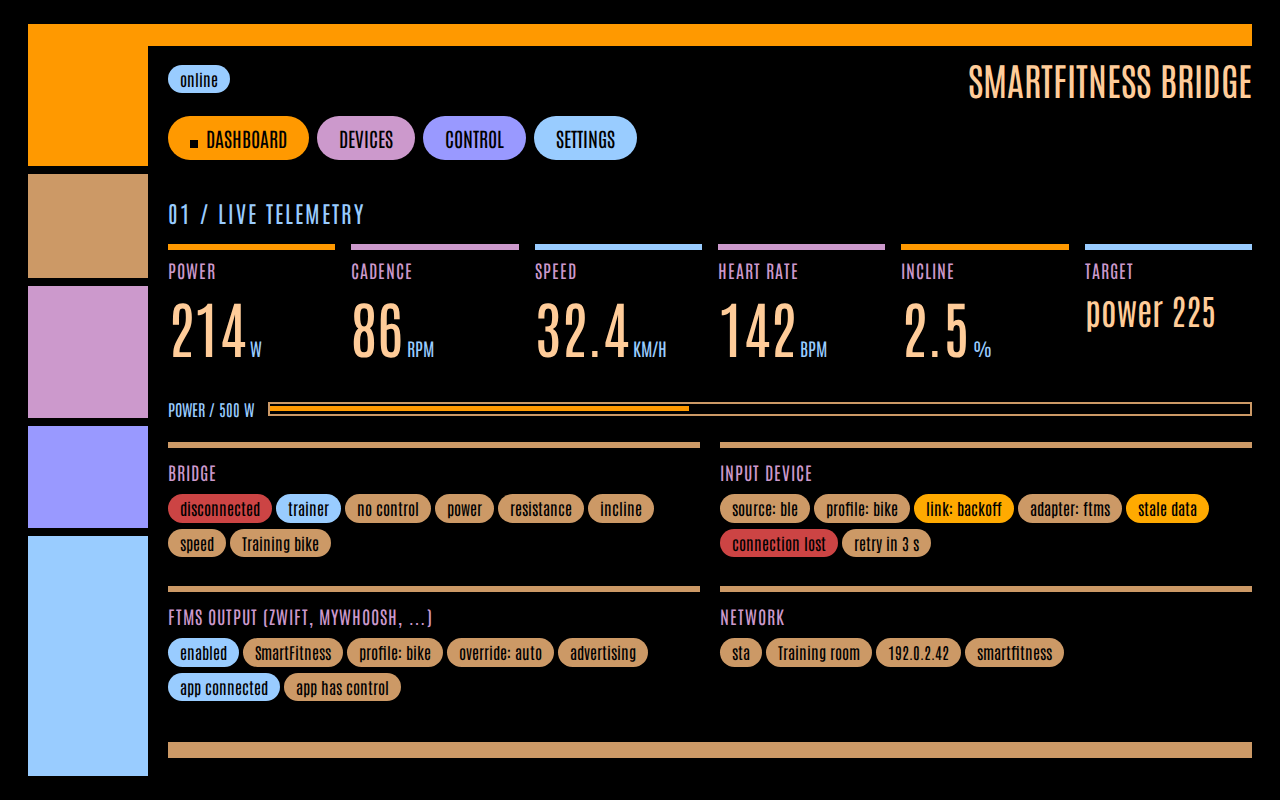
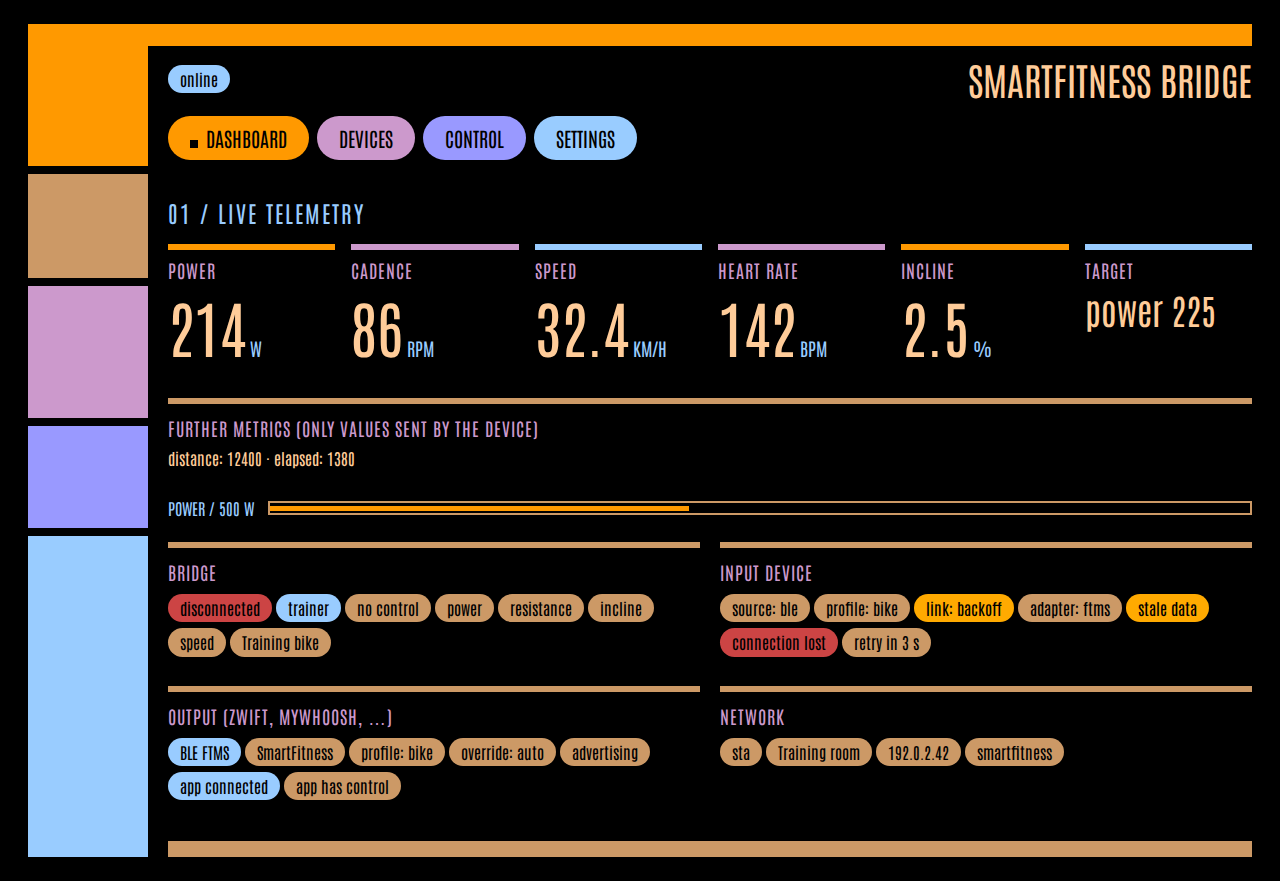
Update HMI simulator and web screenshot fixtures for the output protocol; regenerate docs images

Changed region(s): [[0.0, 0.0, 1.0, 1.0], [0.0312, 0.9688, 0.0938, 1.0]]

diff --git a/scripts/web_screenshots.py b/scripts/web_screenshots.py
@@ -38,7 +38,11 @@ STATUS = {
               "dropped": {"scans": 0, "events": 0, "notifications": 0, "commands": 0}},
     "ftmsOutput": {"enabled": True, "profile": "bike", "override": "auto",
                    "name": "SmartFitness", "advertising": True, "client": True, "control": True},
-    "ant": False, "unsaved": False,
+    "outputProtocol": "ble-ftms",
+    "antOutput": {"enabled": False, "available": True, "link": "disabled", "stick": False, "open": False,
+                  "deviceNumber": 4660, "profile": "bike", "display": False, "control": False,
+                  "hardware": "USB 0fcf:1008"},
+    "unsaved": False,
     "network": {"mode": "sta", "ssid": "Training room", "ip": "192.0.2.42",
                 "hostname": "smartfitness", "stations": 0},
 }
@@ -56,9 +60,9 @@ SCAN = {
     ],
 }
 CONFIG = {
-    "type": "config", "version": "1.0.0", "ftmsName": "SmartFitness", "ftmsOutput": True,
-    "ftmsOutputProfile": "auto", "ftmsInput": True, "ant": False,
-    "antRequiresHardware": True, "simulatedTrainer": True, "wifiSsid": "Training room",
+    "type": "config", "version": "1.0.0", "ftmsName": "SmartFitness", "outputProtocol": "ble-ftms",
+    "ftmsOutputProfile": "auto", "ftmsInput": True, "antAvailable": True,
+    "simulatedTrainer": True, "wifiSsid": "Training room",
     "wifiPasswordSet": True, "apPasswordDefault": True, "unsaved": False,
 }
 WIFI_SCAN = {
@@ -242,6 +246,9 @@ def render(browser, output, name, width, height):
     for number, panel in enumerate(panel_names, start=1 if name == "desktop" else 5):
         page.locator(f"#tab-{panel}").click()
         check_view(page, panel, width < 650)
+        if panel == "dash":
+            expect(page.locator("#s-out .pill").first).to_have_text("BLE FTMS")
+            expect(page.locator("#s-out")).to_contain_text("app connected")
         if panel == "dev":
             expect(page.get_by_label("Adapter for Training bike")).to_have_value("ftms")
             page.get_by_label("Pair Unknown peripheral", exact=True).click()
@@ -269,8 +276,8 @@ def render(browser, output, name, width, height):
             command(page.locator("#btn-save"), "config")
             expect(page.locator("#toast")).to_have_text("applied")
             assert commands[-1] == ("config", {
-                "ftmsName": "SmartFitness", "ftmsOutput": True, "ftmsOutputProfile": "auto",
-                "ant": False, "simulatedTrainer": True, "wifiSsid": "Training room", "save": True})
+                "ftmsName": "SmartFitness", "outputProtocol": "ble-ftms", "ftmsOutputProfile": "auto",
+                "simulatedTrainer": True, "wifiSsid": "Training room", "save": True})
             page.locator("#toast").evaluate("e => e.style.display = 'none'")
         # Remove interaction-only focus so screenshots have a stable resting state.
         page.evaluate("document.activeElement.blur()")
@@ -311,7 +318,9 @@ def render(browser, output, name, width, height):
         page.locator("#tab-set").click()
     expect(page.locator("#c-ftmsName")).to_have_value("SmartFitness")
     page.locator("#c-ftmsOutputProfile").select_option("treadmill")
-    page.locator("#c-ftmsOutput").uncheck()
+    expect(page.locator("#c-outputProtocol")).to_have_value("ble-ftms")
+    expect(page.locator('#c-outputProtocol option[value="ant-fec"]')).to_be_enabled()
+    page.locator("#c-outputProtocol").select_option("ant-fec")
     page.locator("#c-simulatedTrainer").uncheck()
     page.locator("#c-ftmsName").fill("Test treadmill")
     # Config WebSocket updates must not overwrite a field currently being edited.
@@ -320,8 +329,8 @@ def render(browser, output, name, width, height):
     page.locator("#c-wifiPassword").fill("test-fixture-only")
     command(page.locator("#btn-save"), "config")
     assert commands[-1] == ("config", {
-        "ftmsName": "Test treadmill", "ftmsOutput": False, "ftmsOutputProfile": "treadmill",
-        "ant": False, "simulatedTrainer": False, "wifiSsid": "Training room", "save": True,
+        "ftmsName": "Test treadmill", "outputProtocol": "ant-fec", "ftmsOutputProfile": "treadmill",
+        "simulatedTrainer": False, "wifiSsid": "Training room", "save": True,
         "wifiPassword": "test-fixture-only"}), commands[-1]
     # Wi-Fi scan: spinner while busy, then a listbox under the SSID field.
     ssid, wifi_list, wifi_button = (page.locator("#c-wifiSsid"), page.locator("#wifi-list"),

diff --git a/sim/hmi_sim.cpp b/sim/hmi_sim.cpp
@@ -643,10 +643,9 @@ ConfigView configView() {
     ConfigView config;
     config.version = "0.3.0";
     config.ftmsName = "SmartFitness Bridge";
-    config.ftmsOutput = true;
+    config.outputProtocol = OutputProtocol::BleFtms;
     config.ftmsOutputProfile = FtmsOutputProfile::Auto;
-    config.ant = false;
-    config.antRequiresHardware = true;
+    config.antAvailable = false;
     config.unsaved = true;
     return config;
 }
@@ -713,7 +712,10 @@ void knobWalkthrough() {
     turn(3);
     press();
     assert(g_ui.current() == Screen::Settings);
-    turn(9);
+    turn(1);  // Output: BLE FTMS -> Off (no ANT radio on the HMI)
+    press();
+    assert(lastCommand(CommandType::OutputProtocol) && g_commands.back().text == "off");
+    turn(7);
     press();
     assert(g_ui.current() == Screen::Confirm);
     turn(1);
